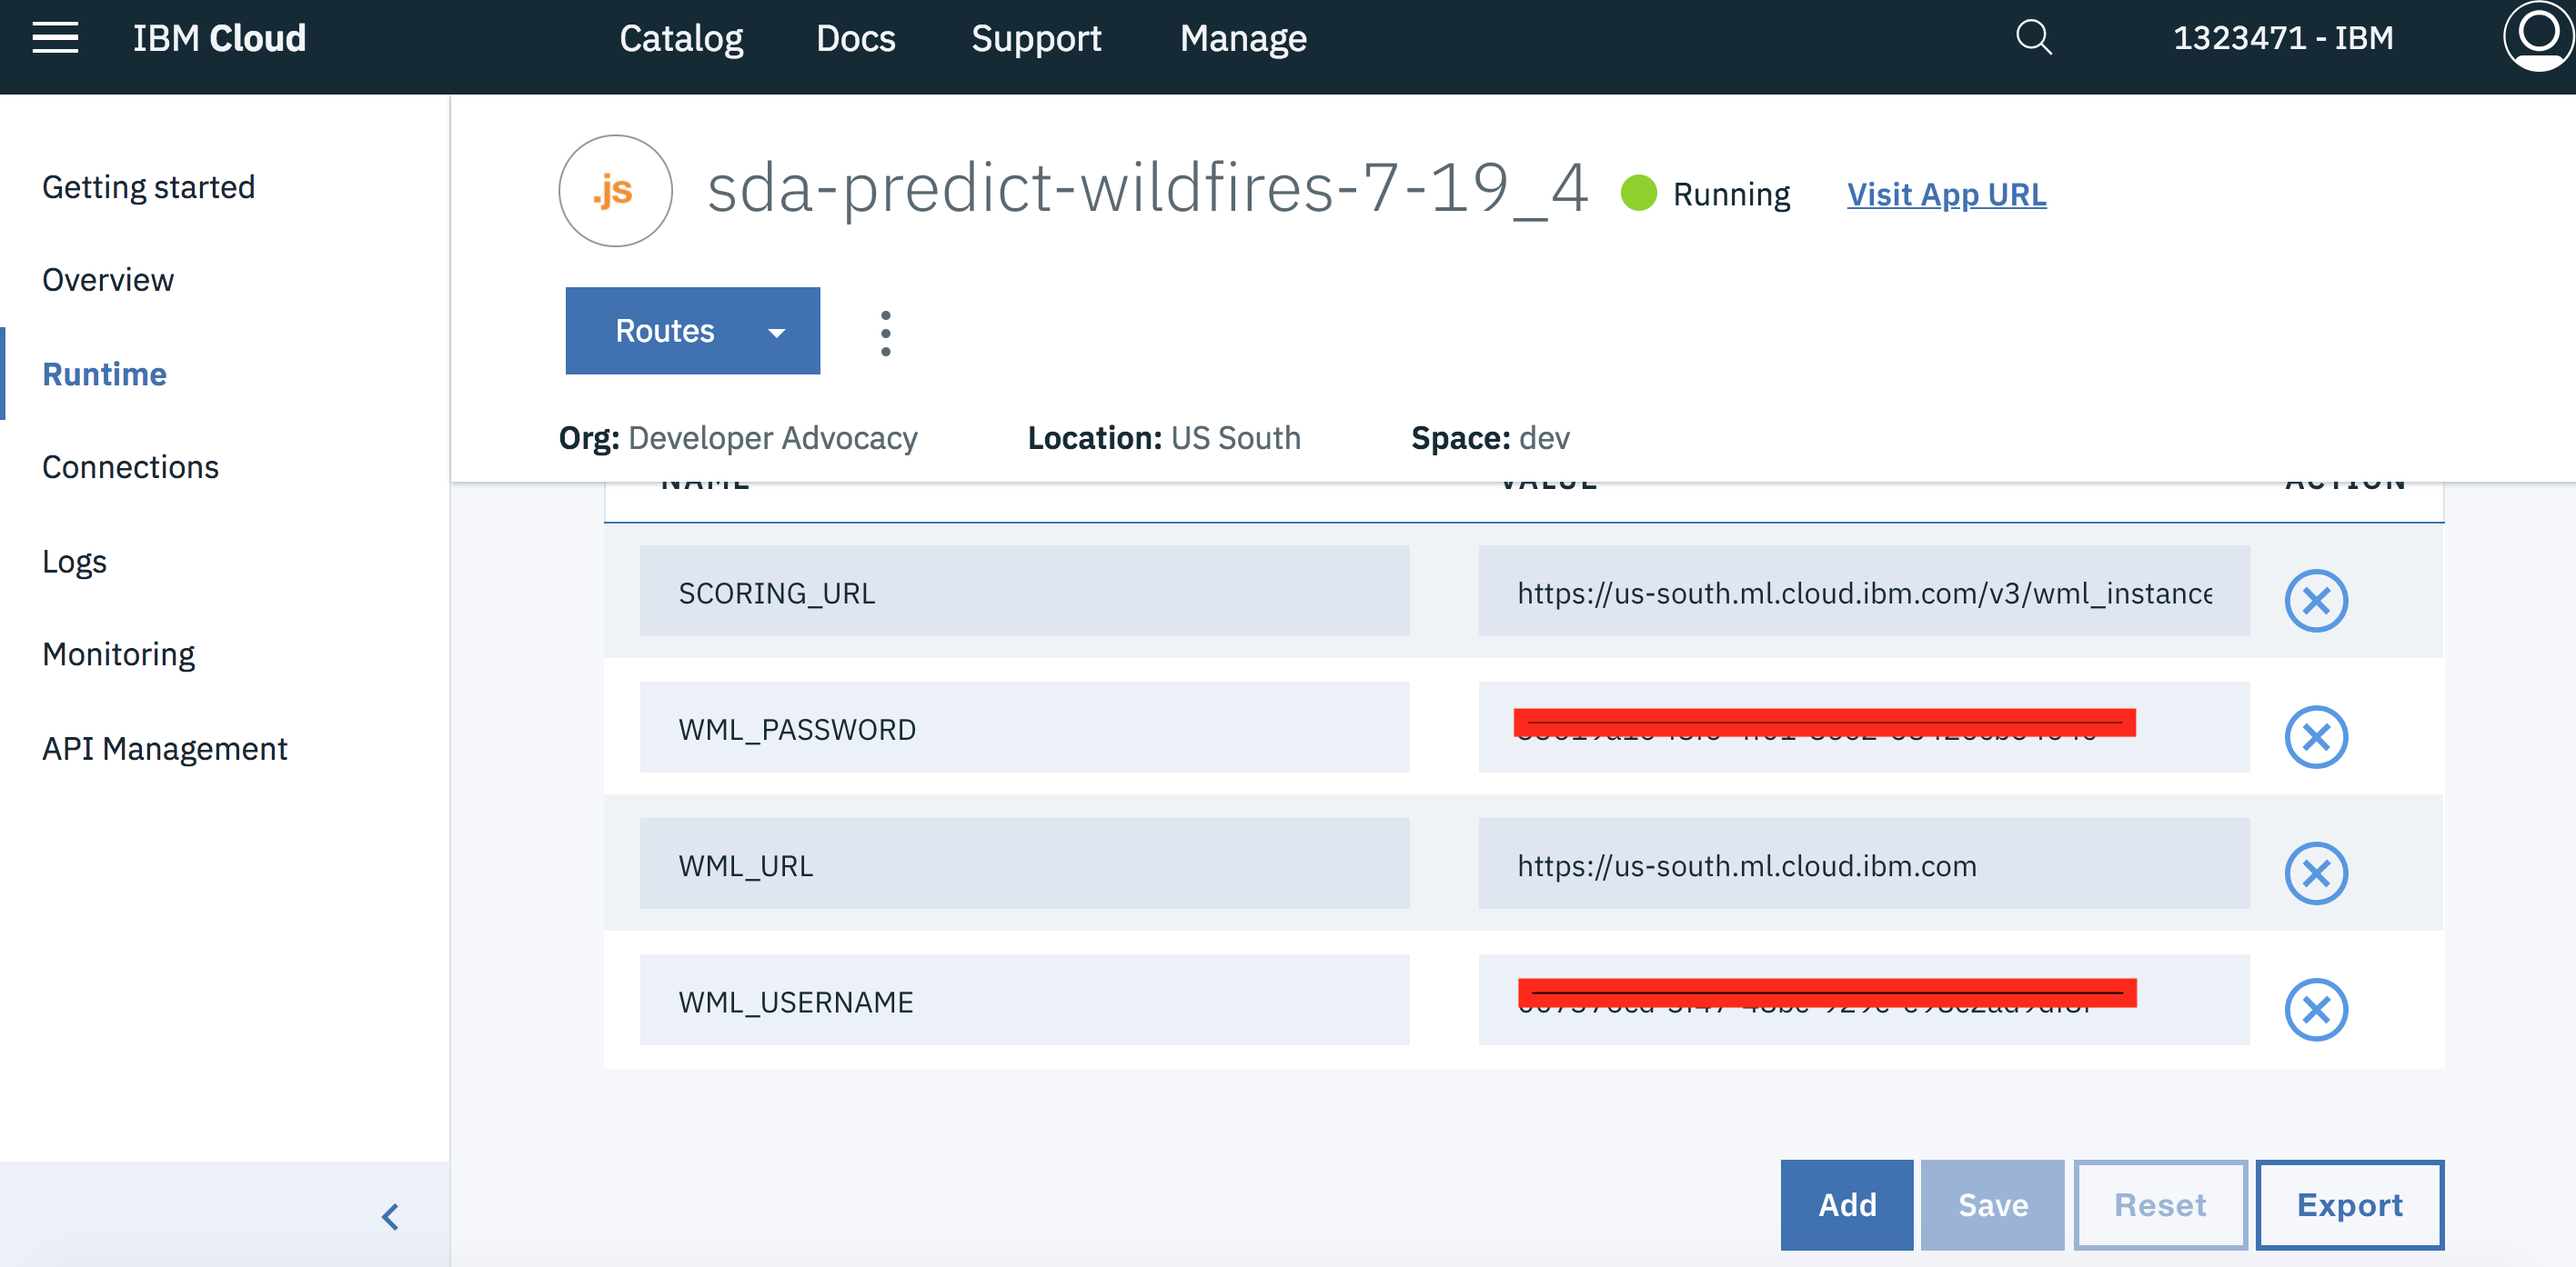
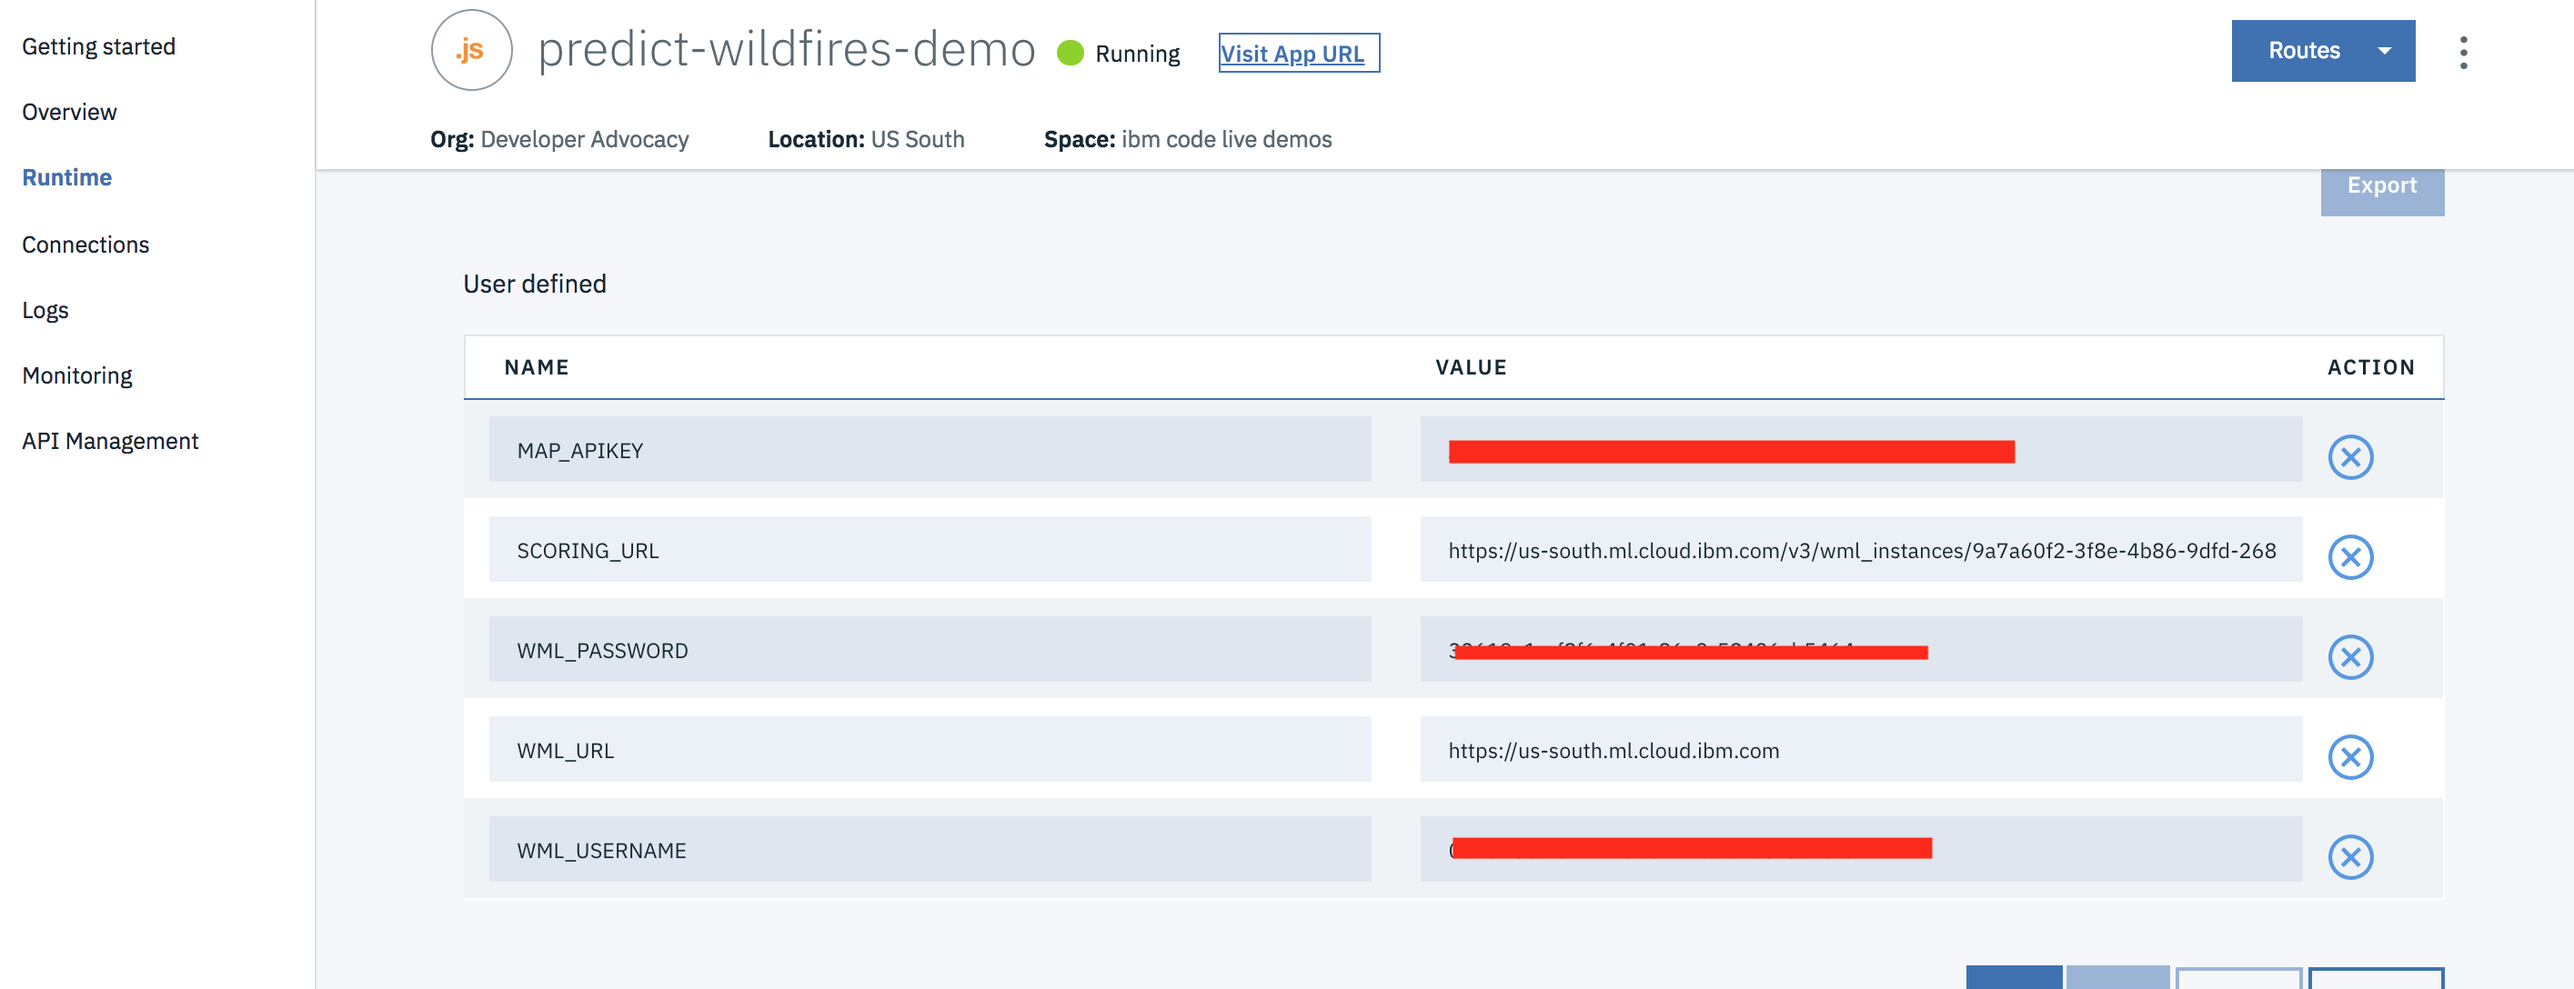
Shrink images, fix ENV variables. (#20)
Shrink Giant images.
Add image of new ENV variable for MAP_APIKEY.
Remove erroneous comment from server/app.js

diff --git a/server/app.js b/server/app.js
@@ -40,8 +40,6 @@ var map_apikey= process.env.MAP_APIKEY;
 
 application.use(bodyParser.urlencoded({ extended: true }));
 
-// setupError will be set to an error message if we cannot recover from service setup or init error.
-
 application.use(express.static(__dirname + "/public"));
 
 application.post('/modelintensity', function(req, res) {

diff --git a/README.md b/README.md
@@ -61,19 +61,19 @@ $ git clone https://github.com/IBM/predict-wildfires
 
 * On [Watson Studio](https://dataplatform.cloud.ibm.com/) choose `New project`:
 
-![](https://github.com/IBM/pattern-images/blob/master/watson-studio/studio_choices.png)
+<img src=https://github.com/IBM/pattern-images/blob/master/watson-studio/studio_choices.png width=500 height=100>
 
 and pick `Data Science`:
 
-![](https://github.com/IBM/pattern-images/blob/master/watson-studio/project_choices.png)
+<img src=https://github.com/IBM/pattern-images/blob/master/watson-studio/project_choices.png width=600 height=400>
 
 * Name the project and select your object storage:
 
-![](https://github.com/IBM/pattern-images/blob/master/watson-studio/new_project.png)
+<img src=https://github.com/IBM/pattern-images/blob/master/watson-studio/new_project.png width=600 height=400>
 
 * Choose `+ Add to project` -> `Data asset` or click the `10/01` button and add the data you downloaded in [Prerequisites](#prerequisites) (MODIS_C6_*_7d.csv):
 
-![](https://github.com/IBM/pattern-images/blob/master/watson-studio/watson-studio-add-data.png)
+<img src=https://github.com/IBM/pattern-images/blob/master/watson-studio/watson-studio-add-data.png width=250 height=200>
 
 * Under the `Settings` tab -> `Associated Services` choose `+ Add service` -> `Watson` and select `Machine Learning`. Either choose an `Existing` ML Service or create a `New` one.
 
